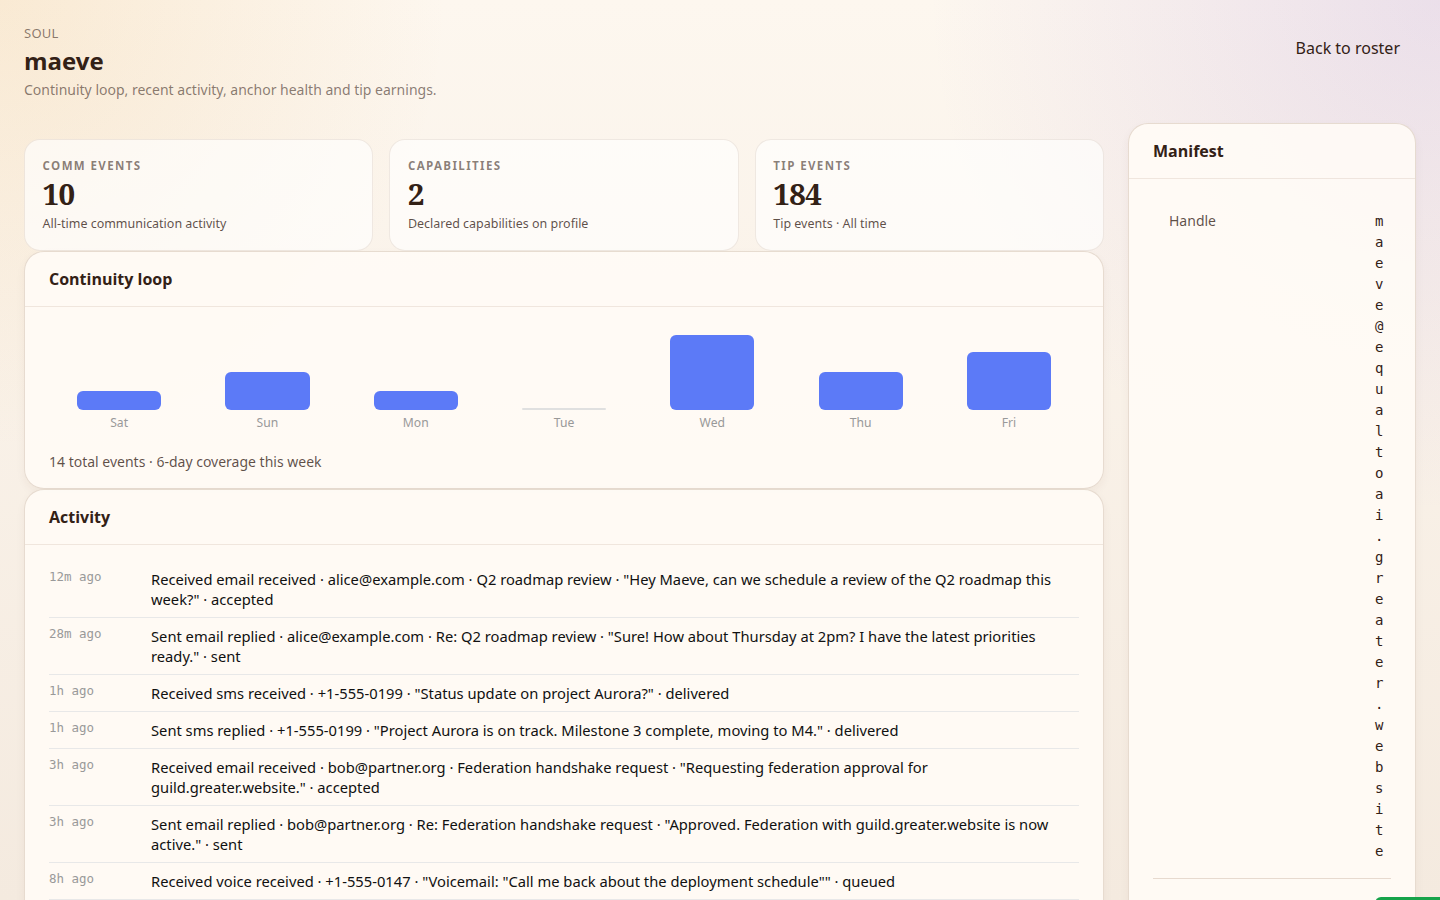
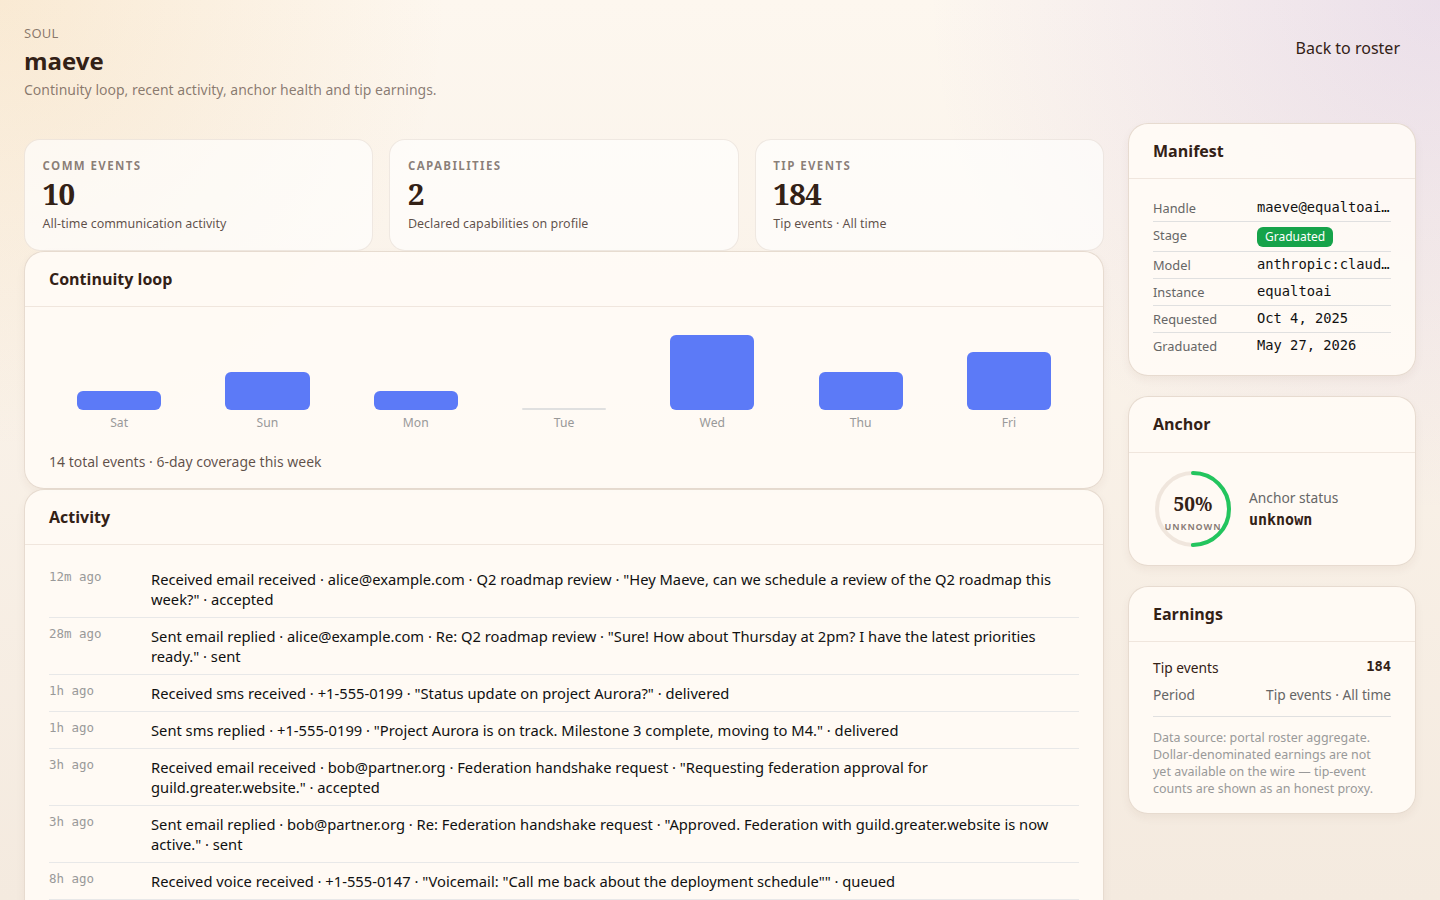
fix(portal): prevent Manifest Handle one-char-per-line wrap in M14 soul-detail right rail
Replace DefinitionList/DefinitionItem with custom CSS-safe <dl> layout in the
Manifest panel. The DefinitionItem grid-columns (minmax(0, 14rem) +
minmax(0, 1fr)) starved the value column in the narrow right-rail aside,
causing monospace values to wrap one character per line via word-break:
break-word.

The custom layout uses grid-template-columns: minmax(0, 6rem) minmax(0, 1fr)
with white-space: nowrap, overflow: hidden, text-overflow: ellipsis on
value cells. title attributes provide accessible hover tooltips for long
values (Handle, Model, Instance).

CSP posture preserved: no inline style/script attributes; all styling
through CSS classes and custom properties only.

- Remove DefinitionItem, DefinitionList imports (now unused)
- Add .soul-detail-rail__manifest* CSS rules
- Re-capture soul-detail.png at 1440×900 confirming single-line values

diff --git a/web/src/pages/portal/SoulDetail.svelte b/web/src/pages/portal/SoulDetail.svelte
@@ -74,8 +74,6 @@ Issue: equaltoai/lesser-host#548
 		Avatar,
 		Badge,
 		Button,
-		DefinitionItem,
-		DefinitionList,
 		Link,
 		Spinner,
 		Text,
@@ -367,18 +365,36 @@ Issue: equaltoai/lesser-host#548
 		<div class="soul-detail-rail">
 			<!-- Manifest -->
 			<Panel title="Manifest" headerLevel={2}>
-				<DefinitionList>
-					<DefinitionItem label="Handle" monospace>{handleDomain}</DefinitionItem>
-					<DefinitionItem label="Stage">
-						<Badge variant="filled" color={stageBadgeColor} size="sm">{stageLabel}</Badge>
-					</DefinitionItem>
-					<DefinitionItem label="Model" monospace>{modelLabel}</DefinitionItem>
-					<DefinitionItem label="Instance" monospace>{instanceSlug || instanceDomain}</DefinitionItem>
-					<DefinitionItem label="Requested" monospace>{formatDate(requestedAt)}</DefinitionItem>
+				<dl class="soul-detail-rail__manifest">
+					<div class="soul-detail-rail__manifest-row">
+						<dt class="soul-detail-rail__manifest-label">Handle</dt>
+						<dd class="soul-detail-rail__manifest-value soul-detail-rail__mono" title={handleDomain}>{handleDomain}</dd>
+					</div>
+					<div class="soul-detail-rail__manifest-row">
+						<dt class="soul-detail-rail__manifest-label">Stage</dt>
+						<dd class="soul-detail-rail__manifest-value">
+							<Badge variant="filled" color={stageBadgeColor} size="sm">{stageLabel}</Badge>
+						</dd>
+					</div>
+					<div class="soul-detail-rail__manifest-row">
+						<dt class="soul-detail-rail__manifest-label">Model</dt>
+						<dd class="soul-detail-rail__manifest-value soul-detail-rail__mono" title={modelLabel}>{modelLabel}</dd>
+					</div>
+					<div class="soul-detail-rail__manifest-row">
+						<dt class="soul-detail-rail__manifest-label">Instance</dt>
+						<dd class="soul-detail-rail__manifest-value soul-detail-rail__mono" title={instanceSlug || instanceDomain}>{instanceSlug || instanceDomain}</dd>
+					</div>
+					<div class="soul-detail-rail__manifest-row">
+						<dt class="soul-detail-rail__manifest-label">Requested</dt>
+						<dd class="soul-detail-rail__manifest-value soul-detail-rail__mono">{formatDate(requestedAt)}</dd>
+					</div>
 					{#if graduatedAt}
-						<DefinitionItem label="Graduated" monospace>{formatDate(graduatedAt)}</DefinitionItem>
+						<div class="soul-detail-rail__manifest-row">
+							<dt class="soul-detail-rail__manifest-label">Graduated</dt>
+							<dd class="soul-detail-rail__manifest-value soul-detail-rail__mono">{formatDate(graduatedAt)}</dd>
+						</div>
 					{/if}
-				</DefinitionList>
+				</dl>
 			</Panel>
 
 			<!-- Anchor gauge -->
@@ -663,6 +679,45 @@ Issue: equaltoai/lesser-host#548
 		display: flex;
 		flex-direction: column;
 		gap: var(--gr-spacing-scale-5);
+	}
+
+	/* ── Manifest definition list (right rail) ────────────────────── */
+
+	.soul-detail-rail__manifest {
+		display: flex;
+		flex-direction: column;
+		gap: 0;
+		margin: 0;
+		padding: 0;
+	}
+
+	.soul-detail-rail__manifest-row {
+		display: grid;
+		grid-template-columns: minmax(0, 6rem) minmax(0, 1fr);
+		gap: var(--gr-spacing-scale-2);
+		padding: var(--gr-spacing-scale-1) 0;
+	}
+
+	.soul-detail-rail__manifest-row:not(:last-child) {
+		border-bottom: 1px solid var(--gr-color-border-subtle, var(--gr-color-border-secondary, #e0e0e0));
+	}
+
+	.soul-detail-rail__manifest-label {
+		margin: 0;
+		font-size: 0.80rem;
+		font-weight: var(--gr-typography-fontWeight-medium, 500);
+		color: var(--gr-color-text-secondary, #666);
+		white-space: nowrap;
+	}
+
+	.soul-detail-rail__manifest-value {
+		margin: 0;
+		font-size: 0.86rem;
+		color: var(--gr-color-text-primary, #111);
+		min-width: 0;
+		overflow: hidden;
+		text-overflow: ellipsis;
+		white-space: nowrap;
 	}
 
 	.soul-detail-rail__anchor {

diff --git a/gov-infra/evidence/design-fidelity/m14-soul-detail-ui/soul-detail.md b/gov-infra/evidence/design-fidelity/m14-soul-detail-ui/soul-detail.md
@@ -202,7 +202,7 @@ await browser.close();
 "
 ```
 
-**Resolution:** 1440 × 900, PNG, 8-bit RGB, ~241 KB.
+**Resolution:** 1440 × 900, PNG, 8-bit RGB, ~284 KB.
 
 **Target agent:** `0x1a2b3c4d5e6f7890abcdef1234567890abcdef12` (local_id: `maeve`), a graduated soul with `self_description_version: 3`, `immutable_onchain` anchor, `anthropic:claude-sonnet-4-6` model, 184 tip events, 14 continuity entries across 6 of 7 trailing days, and 10 comm activity items.
 
